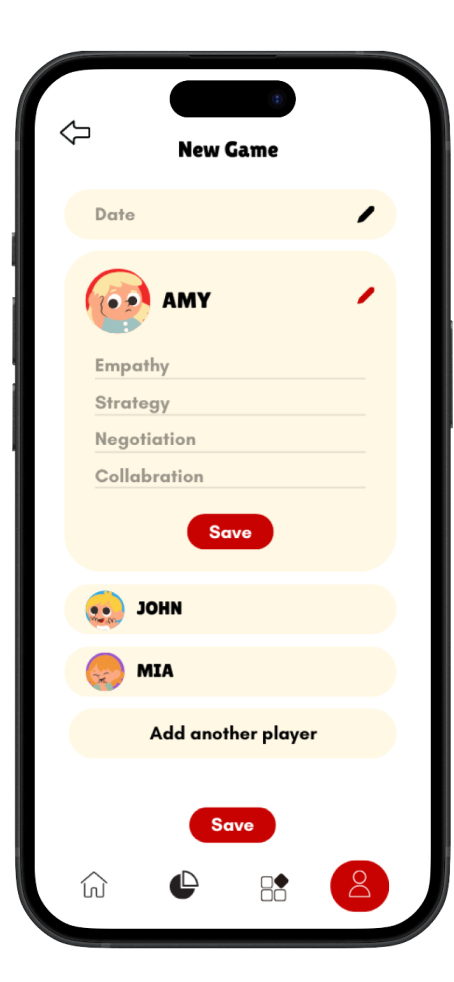
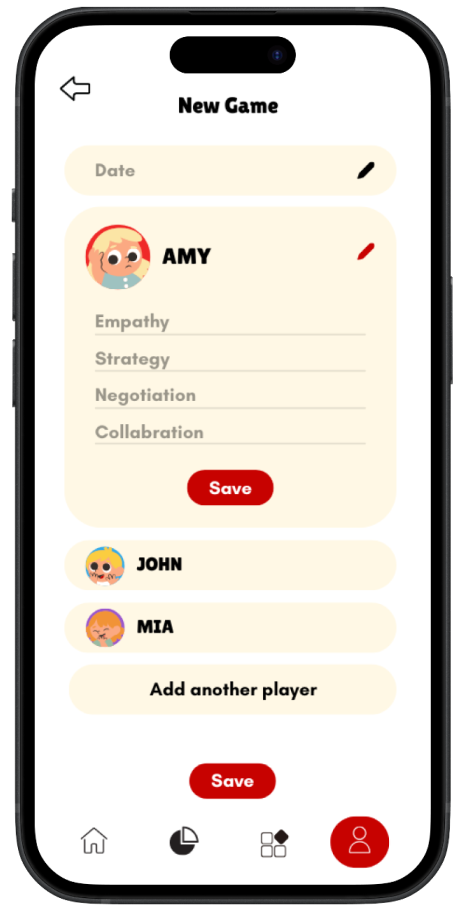
Galactic Guardians: bring app screen titles and captions closer to the screens
Claude-Session: https://claude.ai/code/session_016JipU5KkSJDLw1FRNbE3mb

diff --git a/CLAUDE.md b/CLAUDE.md
@@ -257,7 +257,7 @@ Ask me for each asset when the phase that needs it begins.
 - **Images in content files:** content files give only a file name (e.g. `cover: "cover.jpg"`); `src/lib/media.ts` finds it in `content/images/<folder>/` and the build stops with a clear message if the name is wrong. Case study covers live in the case study's folder; Play pieces in `content/images/play/`. Optional `coverFocus: left|center|right|NN%` in a case study file sets which part of the cover the Home/Work gallery tile keeps when trimming (the case study page always shows the full cover). Optional `tileImage` + `tileAlt` give the gallery tile its own image (4:3 fits the tile exactly; case study tiles and visual-piece tiles are 4:3 at every width). Galactic Guardians: wide 2:1 `cover.jpg` on the case study page, 4:3 `tile.jpg` on Home/Work.
 - **Home gallery (Phase 3, revised after Ran's feedback with zegzulka.com screenshots):** a filled grid with no white space, small even gaps (`--gallery-gap`) and rounded corners (`--radius-media`). Wide screens (≥64rem): 3 columns; each case study spans 2 columns × 2 rows, alternating left/right, with its 2 visual pieces stacked beside it; rows sized from the container width (container query units). Below 64rem: 2 columns; case study full width with details under the image, then 2 pieces side by side. Home fits 8 pieces exactly (`home: true` in `play.yaml`); extras fill rows of 3 below. Case study details sit on a white panel in the image's bottom-left corner, fading in on hover (always visible on wide touch screens). Visual pieces show optional `title` + `tags` labels on hover (mouse/trackpad only) and are never links. The "View" cursor (`src/components/ViewCursor.astro`) appears over anything marked `data-cursor="view"`, only on `(hover: hover) and (pointer: fine)`. Scroll fade-in: add `class="reveal"`.
 - **Case study pages (Phase 4):** `/work/<file-name>/`, from `src/pages/work/[slug].astro`. All content is in the file's front matter: hero fields, then sections `why`, `research`, `insight`, `concept`, `prototype` (`built` / `designed`), `testing` (`before` / `after`), `reflection`, optional `credits` and `notice`. Sections are lists of "parts" built from blocks (heading, label, text, points, pairs, steps, visuals, video, source), rendered by `src/components/case/Part.astro`. `content/case-studies/_TEMPLATE.md` documents every option (files starting with `_` aren't published). `[PLACEHOLDER…]` and `[SOURCE NEEDED]` are highlighted automatically. Section headings and labels live in `site.yaml` under `caseStudy`.
-- **Visual-first case studies (Ran's update, Galactic Guardians):** a case study file with `sections:` uses the visual-first layout instead of the classic fixed sections: each section has a `heading` and `blocks` (image [+ insight/goal/text beside it], `size: small`, `cards` title + image + one line, `gallery` 1 large + 2, `steps` photo row, `screens` app row (title above, caption below, max 230px wide, no added frame; 1 row desktop, 2 per row tablet, swipe with peek on phone; groups via block `label`), `before`/`after`, `video`, `note`, `text`+`source`), rendered by `src/components/case/Block.astro` inside stacked `Section`s numbered in order. "Why this project" and "Reflection" are optional there. Each redesign was verified by comparing the other pages' built HTML before and after. `_TEMPLATE.md` now documents the visual-first format. Rules: images lead; ≤2 short sentences per text; captions ≤12 words; never add animation beyond existing fades. GG images are labeled grey placeholders with the final file names, so Ran replaces them one-for-one. Buddy's Adventure Island is also visual-first (3 sections + `credits`, shown as small text after the last section). Extra block options added for it: `insight` may be a list of lines; `sideBySide: true` on a gallery puts all images in one equal row, with an optional shared `caption`; before/after panels use full width for landscape images. A gallery of lead + exactly one image shows both full width. CTE: Every Hit Matters is visual-first too (4 sections); blocks added for it: `statement` (big key message), `quotes` (text + credit, 2 columns on wide screens), `tiles` (title + one line cards, no image). The hero `notice` now shows as small muted text directly under the cover image. Brand safety for CTE: no NHL/team logos or real mascots; flag any logo in Ran's images and ask before using it. WonderWeave is visual-first too (4 sections); added an optional block `label` (small heading above a block, e.g. "Design focus"). Privacy for WonderWeave: no parent names/photos/ages, no children's names or universities, "names changed for privacy" in interview quote credits, psychotherapist credited by role, label stock/illustrative people. All four case studies now use the visual-first layout; the classic layout code (`Part.astro` and the classic branch in `[slug].astro`) is unused but kept for now.
+- **Visual-first case studies (Ran's update, Galactic Guardians):** a case study file with `sections:` uses the visual-first layout instead of the classic fixed sections: each section has a `heading` and `blocks` (image [+ insight/goal/text beside it], `size: small`, `cards` title + image + one line, `gallery` 1 large + 2, `steps` photo row, `screens` app row (title above, caption below, max 230px wide, no added frame; GG app mockups were trimmed of the white band above/below the phone to 454×910 — re-exports should be cropped the same way; 1 row desktop, 2 per row tablet, swipe with peek on phone; groups via block `label`), `before`/`after`, `video`, `note`, `text`+`source`), rendered by `src/components/case/Block.astro` inside stacked `Section`s numbered in order. "Why this project" and "Reflection" are optional there. Each redesign was verified by comparing the other pages' built HTML before and after. `_TEMPLATE.md` now documents the visual-first format. Rules: images lead; ≤2 short sentences per text; captions ≤12 words; never add animation beyond existing fades. GG images are labeled grey placeholders with the final file names, so Ran replaces them one-for-one. Buddy's Adventure Island is also visual-first (3 sections + `credits`, shown as small text after the last section). Extra block options added for it: `insight` may be a list of lines; `sideBySide: true` on a gallery puts all images in one equal row, with an optional shared `caption`; before/after panels use full width for landscape images. A gallery of lead + exactly one image shows both full width. CTE: Every Hit Matters is visual-first too (4 sections); blocks added for it: `statement` (big key message), `quotes` (text + credit, 2 columns on wide screens), `tiles` (title + one line cards, no image). The hero `notice` now shows as small muted text directly under the cover image. Brand safety for CTE: no NHL/team logos or real mascots; flag any logo in Ran's images and ask before using it. WonderWeave is visual-first too (4 sections); added an optional block `label` (small heading above a block, e.g. "Design focus"). Privacy for WonderWeave: no parent names/photos/ages, no children's names or universities, "names changed for privacy" in interview quote credits, psychotherapist credited by role, label stock/illustrative people. All four case studies now use the visual-first layout; the classic layout code (`Part.astro` and the classic branch in `[slug].astro`) is unused but kept for now.
 - **Play and About (Phase 5):** `src/pages/play.astro` shows every `play.yaml` piece in file order as square tiles (2 columns, 3 on wide screens), whole pieces (`fit="contain"` on `VisualPiece`) on the soft grey tile, hover labels, never links, 9 placeholders while the list is empty. `src/pages/about.astro`: intro (plain text after the second `---` in `about.md`, placeholders highlighted), a "Download résumé" button (`resumeButton`), email + copy button, and a timeline (`timelineHeading`, entries newest first) — thin line with dots; on wide screens dates sit right-aligned in their own column. GIF → MP4 conversion needs ffmpeg: ask Ran before installing. Ran finalized the About timeline: 7 entries (added Fashion Editorial Intern, Hearst China | SuperELLE Magazine, Jul–Sep 2023) — this replaces the 6-entry table in the brief. The Play page has no visible title (visually hidden h1) and the grid starts just under the menu. The gallery lives in `src/components/WorkGallery.astro`, shared by Home (intro line + gallery; intro top space `--space-8`) and a Work page `src/pages/work/index.astro` (the menu's "Work" link → `/work/`): no intro, hidden h1, grid starts just under the menu with the same `--space-5` gap as Play.
 - **Testing sections removed (Ran's request):** the "Testing → what changed" section was removed from Galactic Guardians, Buddy's Adventure Island and WonderWeave (with its placeholder images and open items). CTE keeps its "Prototyping and testing" section. The `before`/`after` block still exists for future use.
 - **Publishing = pushing:** the working branch is the default branch, so every push publishes the live site. When Ran asks to approve before publishing, commit locally and push only after the OK.
